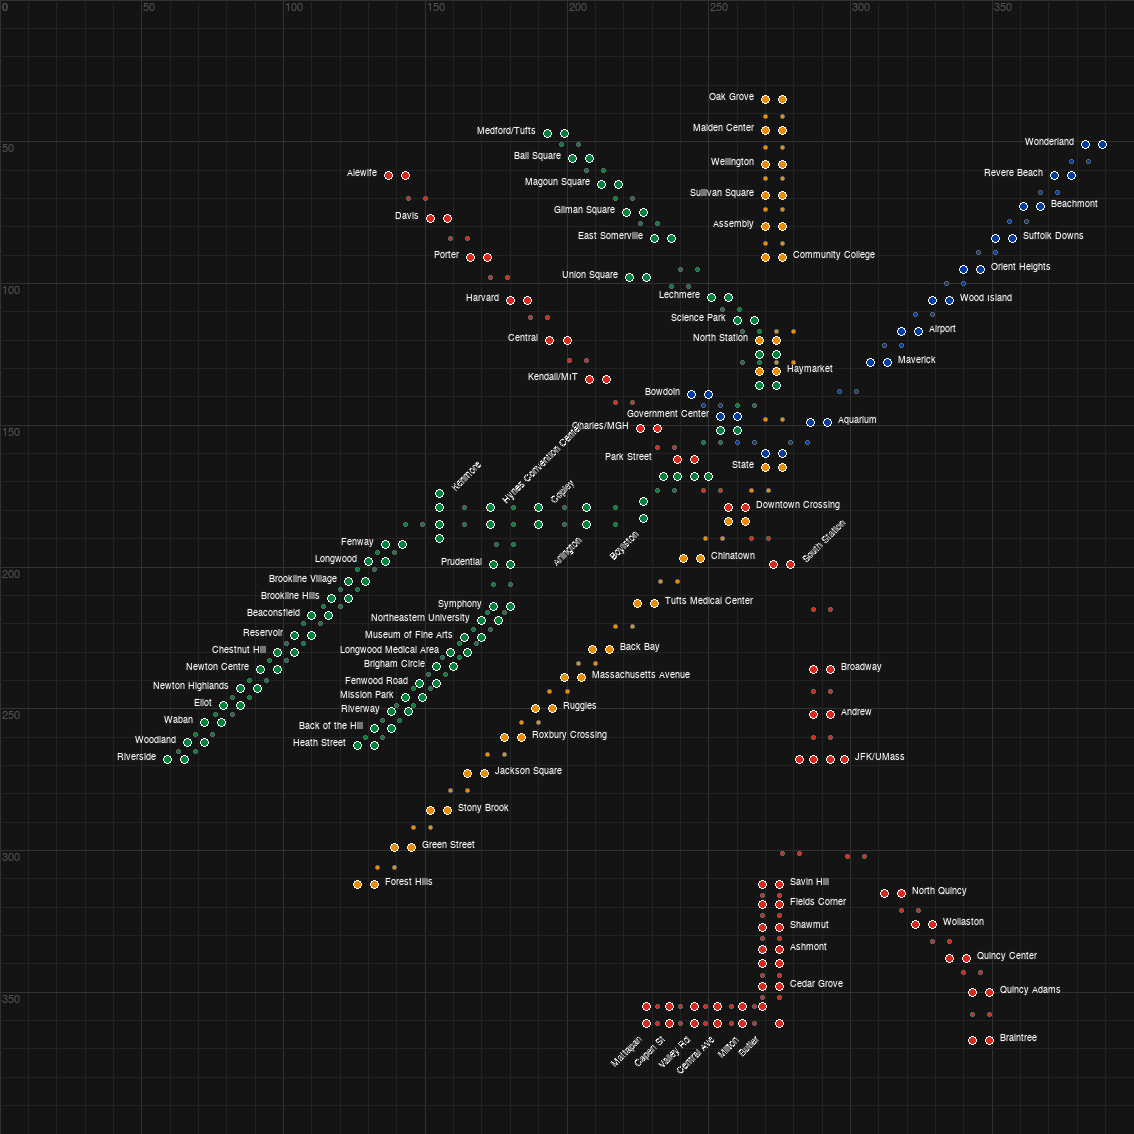
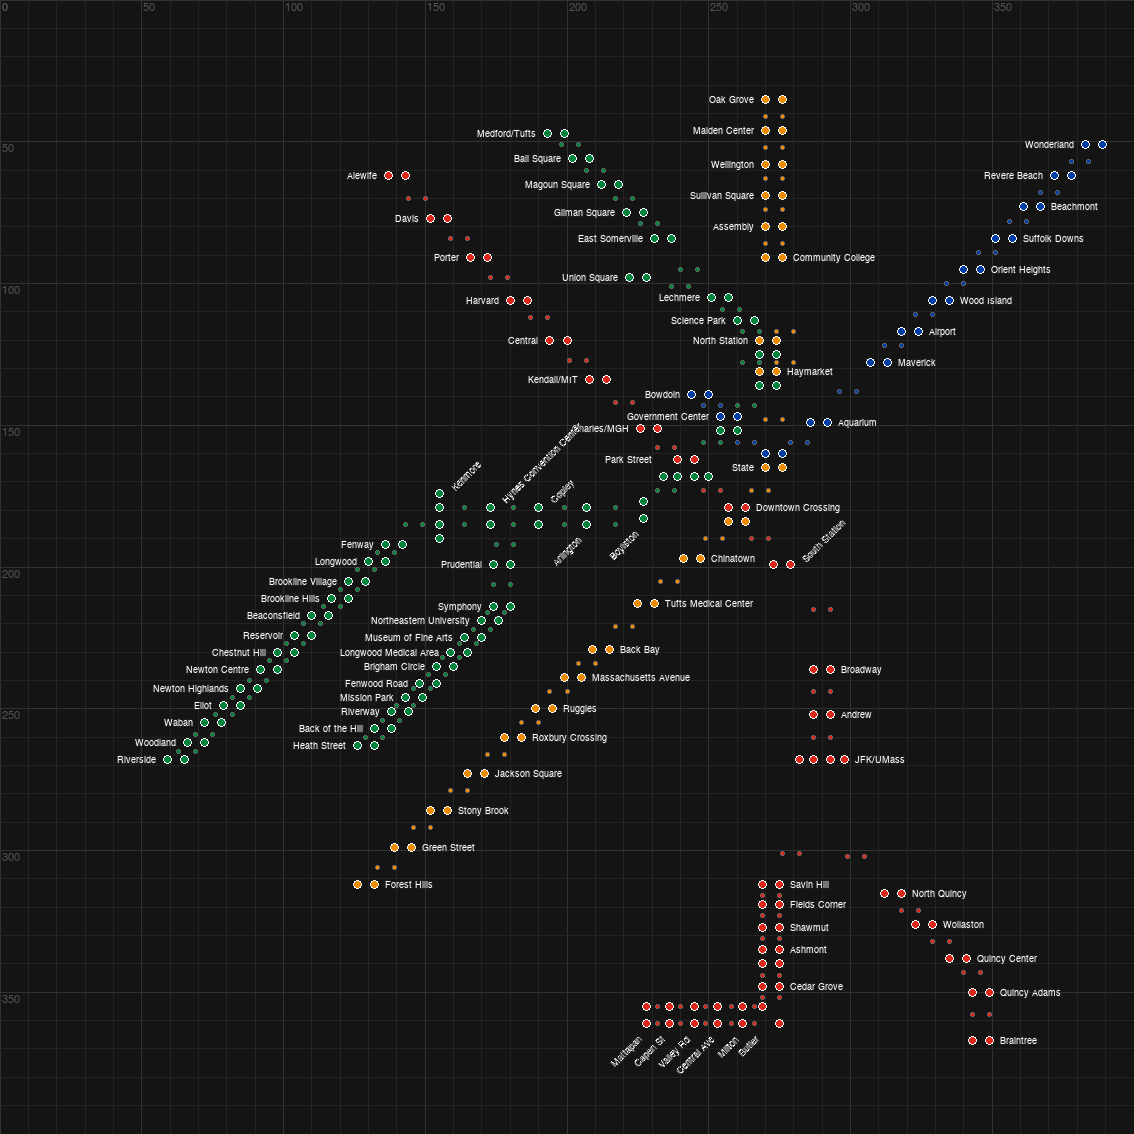
Drop left/right labels down 1mm for better alignment with LEDs

diff --git a/tools/draw_led_grid.py b/tools/draw_led_grid.py
@@ -138,14 +138,14 @@ def draw_leds(draw, img, leds, color, font, simple=False, all_station_leds=None)
                 anchor_px = int(min_x * MM)
                 bbox = draw.textbbox((0, 0), label, font=font)
                 tw = bbox[2] - bbox[0]
-                draw.text((anchor_px - gap_px - tw, py - 6), label,
+                draw.text((anchor_px - gap_px - tw, py - 3), label,
                           fill="white", font=font,
                           stroke_width=1, stroke_fill=(30, 30, 30))
             elif pos == "right":
                 # Anchor label 5mm to the right of the rightmost LED for this station
                 max_x = max(l["x"] for l in all_station_leds.get(led["stop_name"], [led]))
                 anchor_px = int(max_x * MM)
-                draw.text((anchor_px + gap_px, py - 6), label,
+                draw.text((anchor_px + gap_px, py - 3), label,
                           fill="white", font=font,
                           stroke_width=1, stroke_fill=(30, 30, 30))
         else:
